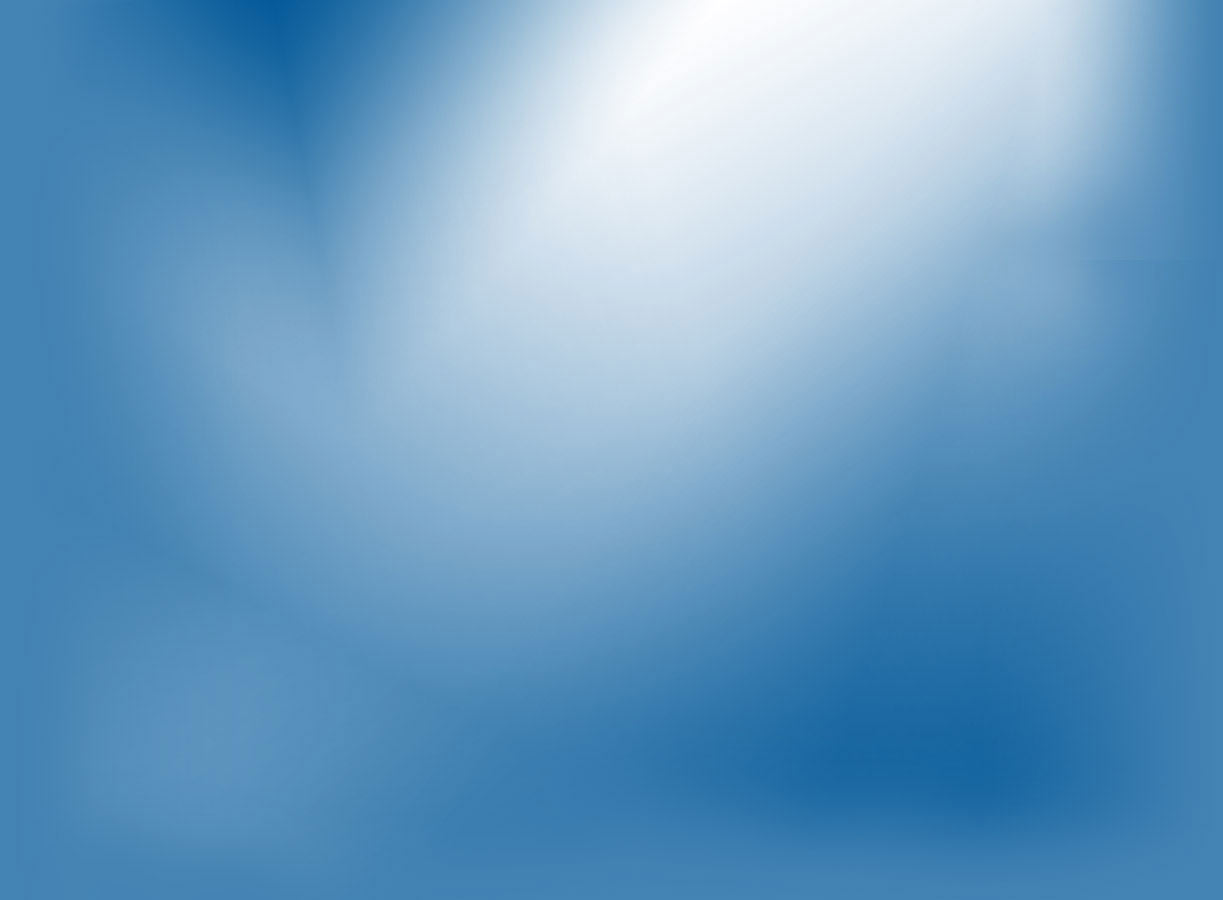
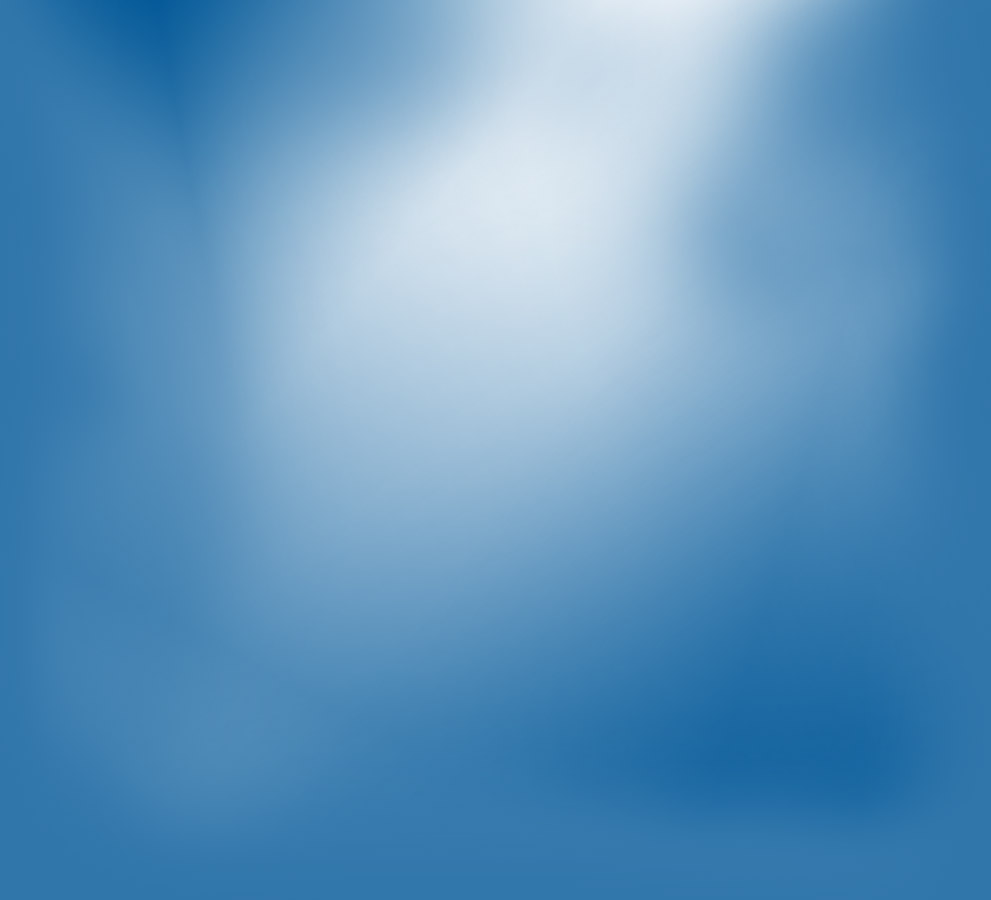
OV-7826 and OV-7533, background image and header links

diff --git a/app/stylesheets/screen.scss b/app/stylesheets/screen.scss
@@ -47,7 +47,8 @@ html {
 
 body {	
   background-image: image-url("background.jpg");
-  background-color: #4282B2;
+  background-color: #3076aa;
+  background-position: center 0;
   min-width: 991px;
   background-repeat: no-repeat;
   height: 100%;
@@ -145,10 +146,10 @@ a.action, .tools a, .new_tag, .new_annotation, .sync {
     top: 20px;
     font-size: 12.5px;
     text-align: right;
-    color: $link-visited-color;
+    color: #fff;
 
     a {
-      @include link-colors($link-visited-color, $link-hover-color, $link-active-color, $link-visited-color, $link-focus-color);
+      @include link-colors(#fff, #fff, #fff, #fff, #fff);
     }
     
     strong {
@@ -188,7 +189,7 @@ a.action, .tools a, .new_tag, .new_annotation, .sync {
     @include padding-trailer(0.5);
   
     a {
-      @include link-colors($footer-color, $footer-hover-color, $footer-active-color, $footer-visited-color, $footer-focus-color); 
+      @include link-colors(#fff, #fff, #fff, #fff, #fff);
     }
     margin: 0;
     
